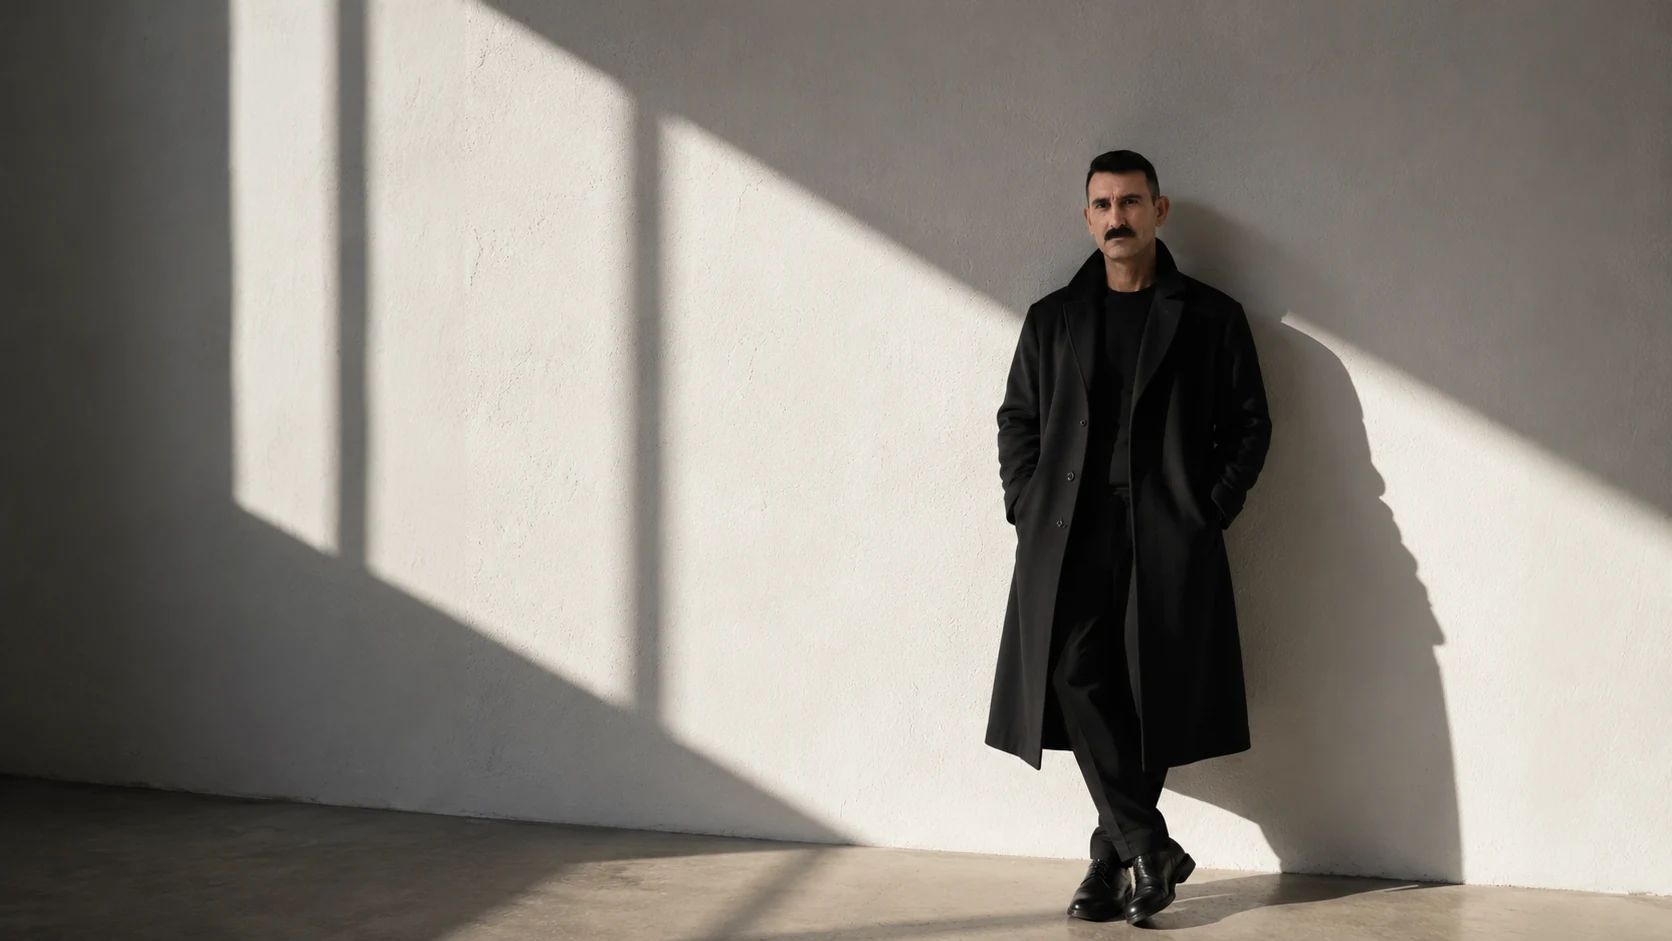
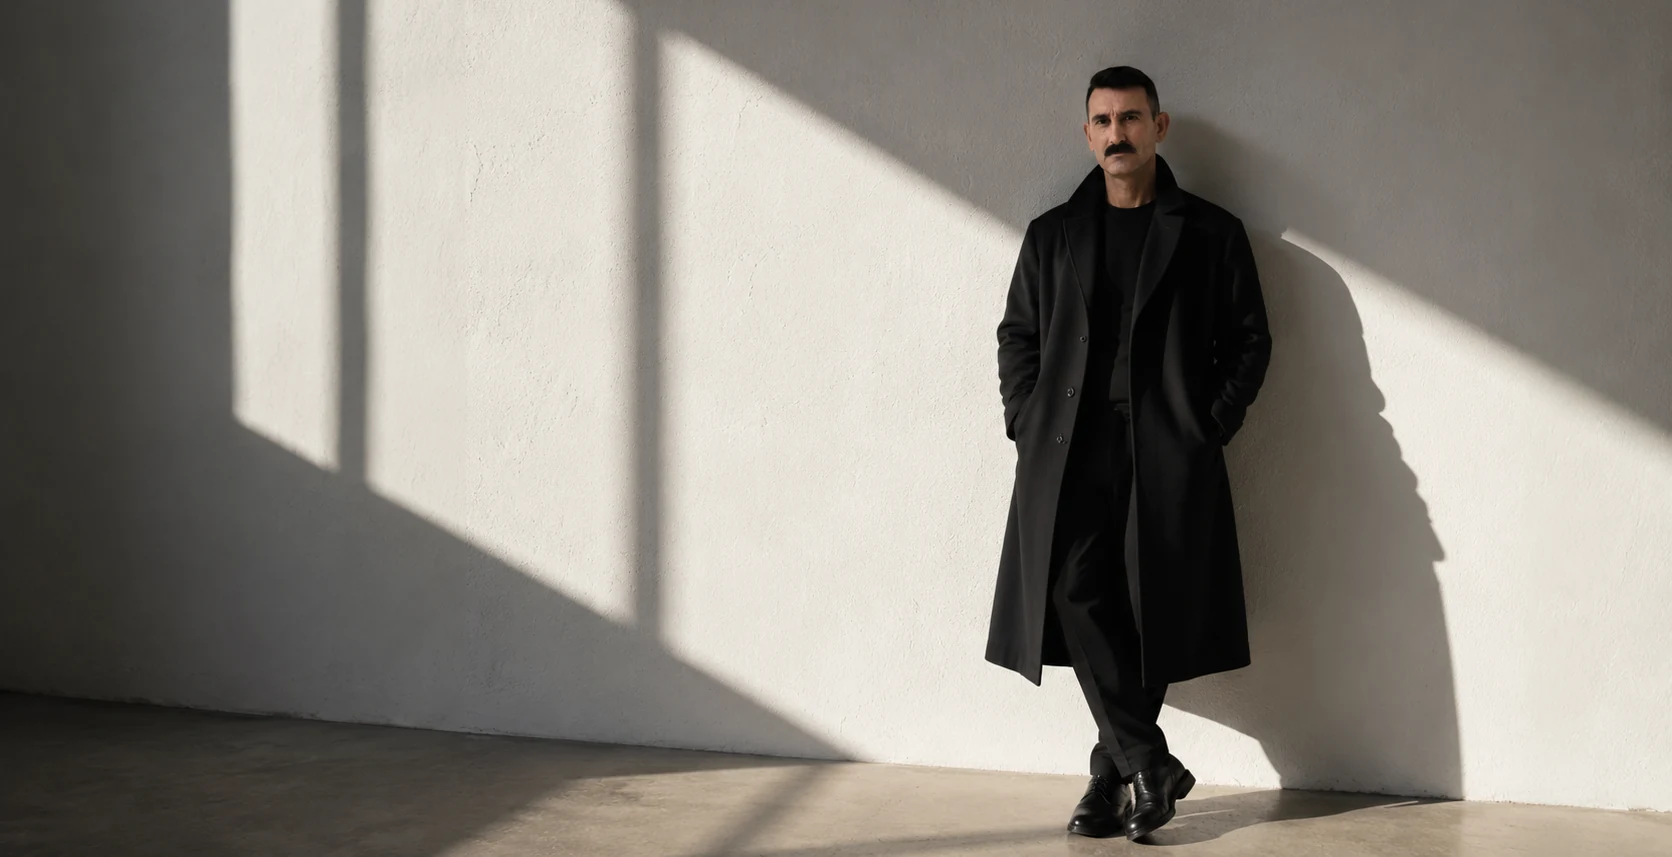
fix: la apertura de Sobre mí se salía del pliegue con el escalado de Windows (#102)
La banda de la foto se dimensionaba solo por el ancho —`clamp(15rem, 46vw,
41rem)`—, así que en un 1920 con el escalado de Windows al 125% (1536×~740 de
viewport CSS) o al 150% (1280×~618) la foto se salía por abajo y la cita quedaba
partida por el borde de la ventana. El alto del viewport no entraba en la
cuenta, y la figura no empieza arriba del todo: la cabecera y el breadcrumb le
comen 12,5rem fijos.

Ahora el alto es `clamp(15rem, min(48vw, 100svh - 14rem), 41rem)`: manda el más
pequeño de los dos términos, así que en pantalla grande sale la figura completa
y en un portátil la banda se acorta en vez de salirse. El suelo de 15rem del
`clamp` protege el móvil, donde el recorte ya es horizontal.

Y para que al acortarse recorte por los pies y NUNCA por la cabeza, la fuente va
recortada 84px por arriba —exactamente el aire que sobraba a ancho máximo, así
que en pantalla grande no cambia nada— y `object-position` pasa de `68% 100%` a
`68% 0%`. Un solo porcentaje no puede hacer las dos cosas: anclado abajo, la
altura de portátil decapitaba.

De paso, dos cosas que la aritmética destapó al revisarla:

- La figura entera no pide `0,465 × ancho` sino **0,505**: el sujeto ocupa las
  filas 66→844 de las 857 de la fuente y, anclado arriba, hay que contar los
  66px de aire. Con `46vw` la banda se quedaba hasta 21px corta entre 900 y
  1426px de viewport y recortaba los zapatos; `48vw` cubre el rango entero, y no
  alarga nada en pantalla baja porque ahí manda el término `svh`.
[…]

diff --git a/components/site/sobre-mi.tsx b/components/site/sobre-mi.tsx
@@ -56,25 +56,49 @@ export function SobreMi({
           {/* Apertura: cita-firma sobre la foto. El scrim garantiza contraste del
               texto sobre la foto; en móvil se oculta la 2ª frase.
 
-              La foto es de cuerpo entero y el sujeto ocupa 778 de sus 941px de
-              alto, así que la banda se dimensiona para que quepa ENTERO: el
-              `clamp` mantiene una ventana de ~855px de la fuente en todo el
-              rango (por eso 46vw, no 42), y `object-[68%_100%]` ancla abajo —
-              deja 13px de suelo bajo los zapatos y 43-150px de aire sobre la
-              cabeza según el ancho. Por debajo de ~520px de viewport el recorte
-              pasa a ser horizontal y el 68% conserva al sujeto, que está a la
-              derecha. Con la banda más corta se cortaba por la rodilla.
+              La foto es de cuerpo entero y el sujeto ocupa las filas 66→844 de
+              los 857px de alto de la fuente, lo que impone una restricción dura:
+              para que salga ENTERO, la banda tiene que medir 0,505 × su ancho.
+              De ahí salen los dos números del `clamp`: el tope —41rem, 656px—
+              cubre los 646 que pide el ancho máximo de contenido (1280px), y el
+              48vw mantiene la proporción por debajo de ese tope. Con 46vw la
+              banda se quedaba hasta 21px corta entre 900 y 1426px de viewport y
+              recortaba los zapatos; el `min()` con `100svh` sigue mandando en
+              cuanto la pantalla es baja, así que subirlo no alarga nada ahí.
 
-              El scrim es más profundo que el de la foto anterior (85/40 frente a
+              Pero esa altura no siempre cabe sobre el pliegue, y ahí es donde se
+              cortaba. La cabecera y el breadcrumb ocupan 12,5rem fijos, y un 1920
+              con el escalado de Windows al 125% deja 1536×~740 de viewport CSS;
+              al 150%, 1280×~618. Con la banda a 656 la foto se salía por abajo y
+              la cita quedaba partida por el borde de la ventana. De ahí el
+              `min(48vw, 100svh - 14rem)` dentro del `clamp`: manda el más pequeño
+              de los dos, así que en pantalla grande sale la figura completa y en
+              un portátil la banda se acorta —12,5rem de andamiaje + 1,5 de aire—
+              en vez de salirse. El suelo de 15rem del `clamp` protege el móvil.
+
+              Y para que al acortarse recorte por los pies y NUNCA por la
+              cabeza, la fuente viene recortada 84px por arriba —exactamente el
+              aire que dejaba la banda a ancho máximo, así que en pantalla
+              grande no cambia nada— y `object-[68%_0%]` ancla arriba. Un solo
+              porcentaje no puede hacer las dos cosas: anclado abajo, la altura
+              de portátil decapitaba. Por debajo de ~520px de viewport el
+              recorte pasa a ser horizontal, sale la figura entera igual, y el
+              68% conserva al sujeto, que está a la derecha.
+
+              El scrim es más profundo que el de la foto anterior (85/55 frente a
               75/25) porque esta pared es blanca donde la otra era gris oscuro:
               con el gradiente antiguo el par texto-blanco/fondo caía a 3,81 en
-              la cita y 6,93 en el subtítulo. Medido sobre el píxel compuesto —el
-              par no existe en ningún token—, ahora da 5,92 y 10,31 en escritorio
-              y 5,42 en móvil, AAA con sus umbrales (4,5 el texto grande de la
-              cita, 7 el normal del subtítulo). */}
+              la cita y 6,93 en el subtítulo. Y sus paradas se topan en px
+              (`min(60%, 13rem)` · `min(100%, 22rem)`) en vez de ir solo en
+              porcentaje: así el velo cubre la cita y poco más, mida lo que mida
+              la banda, en vez de estirarse con ella. Medido sobre el píxel
+              compuesto —el par no existe en ningún token—, el peor caso de todo
+              el rango de alturas (656 → 394) da 5,44 en la cita y 7,28 en el
+              subtítulo, y 8,96 en la cita del móvil: AAA con sus umbrales (4,5 el
+              texto grande de la cita, 7 el normal del subtítulo). */}
           <figure
             data-reveal
-            className="relative m-0 h-[clamp(15rem,46vw,41rem)] overflow-hidden rounded-lg"
+            className="relative m-0 h-[clamp(15rem,min(48vw,100svh_-_14rem),41rem)] overflow-hidden rounded-lg"
           >
             {/* Misma corrección que el hero de la home: `priority` está
                 deprecado en Next 16 y ya no pone `fetchpriority` en el <img>
@@ -86,11 +110,11 @@ export function SobreMi({
               fetchPriority="high"
               loading="eager"
               sizes="100vw"
-              className="object-cover object-[68%_100%]"
+              className="object-cover object-[68%_0%]"
             />
             <div
               aria-hidden
-              className="absolute inset-0 bg-gradient-to-t from-black/85 via-black/40 to-transparent"
+              className="absolute inset-0 bg-[linear-gradient(to_top,rgba(0,0,0,0.85)_0,rgba(0,0,0,0.55)_min(60%,13rem),transparent_min(100%,22rem))]"
             />
             <figcaption className="absolute inset-x-0 bottom-0 p-[clamp(1.5rem,4vw,3rem)]">
               <p className="font-display m-0 max-w-[24ch] text-[clamp(1.5rem,3.4vw,2.4rem)] leading-[1.15] font-semibold tracking-[-0.02em] text-balance text-white">
